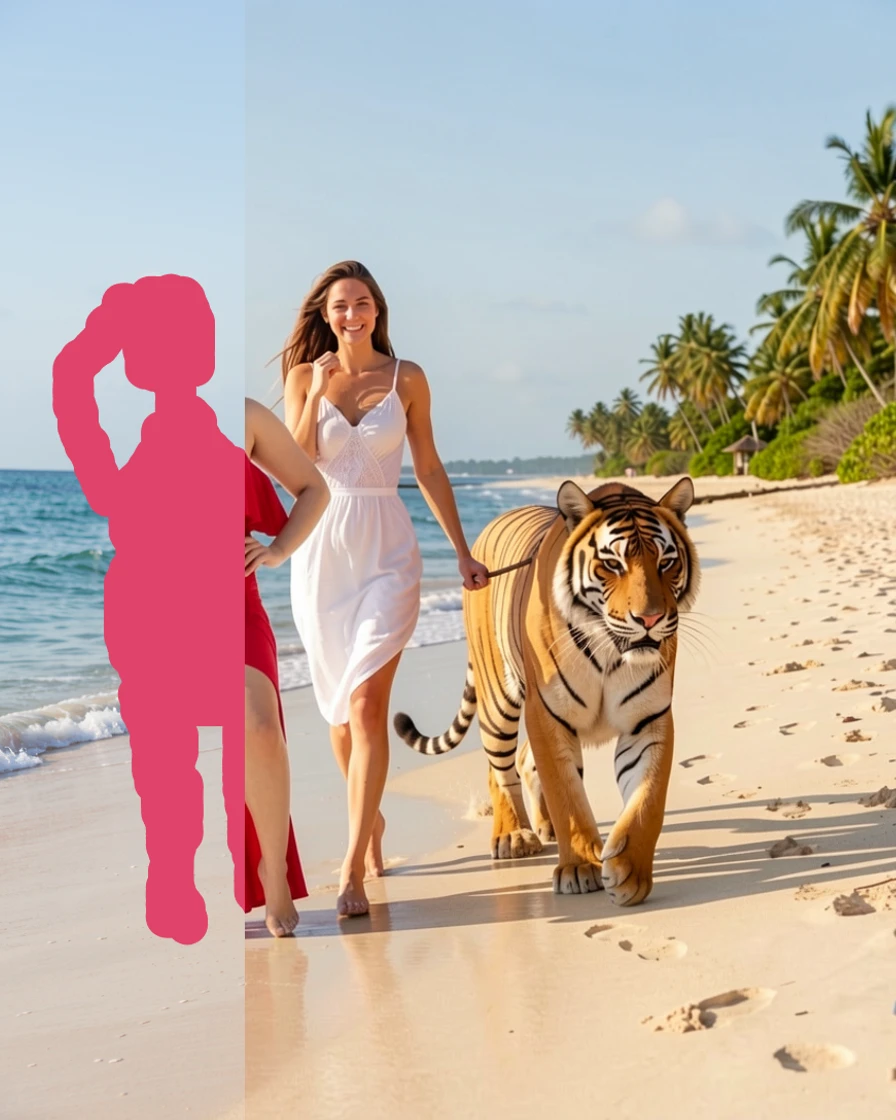
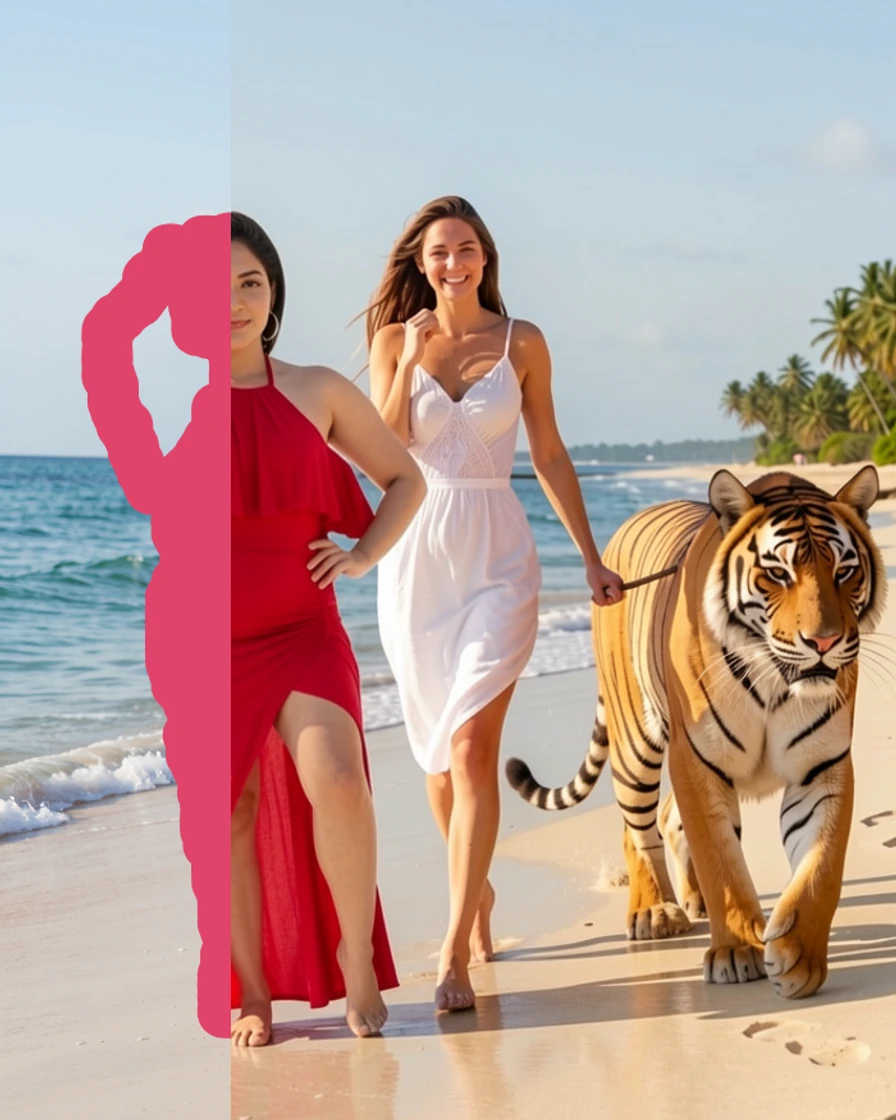
feat(MPI-626): both seams now cut through the face, not past it
Head Swap and Draw It In shipped the right device parked in the wrong
place: the seam sat beside the subject, so neither tile read as one
character in two states.

Re-cut both stills from the original plates, recovered off Fabio's own
runs through their sidecars - nothing regenerated:

- Head Swap: seam on the nose bridge (plate x 857), old beard left, new
  head right. Plates proved registered first - mean abs diff 0.49/255
  with the changed bbox on the head alone (x 771-943, y 122-267), which
  is the property the wipe depends on. flowHeadSwap_002 over 001,
  because 001 keeps a goatee the shipped hero does not.
- Draw It In: seam through the drawn woman's face (plate x 180), so the
  blob and the render are now the same head, half each, instead of two
  figures side by side. Punched 1.28x on her; the full figure, its
  contact shadow, the second woman and the tiger all survive the crop.

Colours sampled off the shipped pair rather than chosen - bar #FF5FA2,
blob flat #E0436B. Heroes and flowsRegistry.js untouched: same
filenames, so the descriptors already point at the new bytes.

diff --git a/.agents/mpi-kanban/tasks/MPI-626/brief.md b/.agents/mpi-kanban/tasks/MPI-626/brief.md
@@ -1,0 +1,59 @@
+# MPI-626 — Re-cut two flow tiles so the seam bisects the face
+
+Fabio, 2026-08-26, looking at the Flow Library grid: Head Swap's seam should sit
+"right at the centre of his face, on his nose, so that it actually displays that
+it's two different characters", and Draw It In's should be "at the centre of the
+character grabbing part of her head".
+
+Both tiles were right about the device and wrong about where to park it.
+
+| Tile | Seam was | Seam is | What that changes |
+|---|---|---|---|
+| Head Swap | plate x ~800 — through his left cheek | **plate x 857** — the nose bridge | Old beard/new beard either side of one face. Two characters, one head |
+| Draw It In | plate x 251 — past the drawing's right edge | **plate x 180** — her face | The drawn shape and the render are now the SAME head, half each. Before, they were two separate figures side by side |
+
+## Plates — all four came off Fabio's own runs, nothing generated
+
+Found through the sidecars, per `06-preview-image.md` § Making them.
+
+- **Head Swap** — `mpi-546-smoke/Media/t2i_008.png` (before) and
+  `flowHeadSwap_002.png` (after), both 1344×768. Registration proved before
+  compositing: mean abs diff **0.49/255** with the changed bbox at
+  **x 771–943, y 122–267** — the head and nothing else, which is what the wipe
+  device depends on. `flowHeadSwap_001.png` pairs with the same before but keeps
+  a grey goatee; the shipped hero's second half is clean-shaven, so **002** is
+  the one that matches the hero.
+- **Draw It In** — run **015** (`Untitled/Media/flowScribObj_015.png`, 896×1088)
+  with its sidecar's two inputs: `image1` → `t2i_005.png`, `image2` → the
+  transparent drawing at
+  `.preview-assets/65df930df99831b649a3744dc9bae514e73ac1bede9896d67e5f49f1d66ba13e.png`
+  (896×1088, alpha bbox x 63–313, y 265–917 — registered to the red-dress figure).
+
+## Numbers
+
+| | Head Swap | Draw It In |
+|---|---|---|
+| crop (plate px) | `left 707, top 9, 300 × 375` | `left 0, top 100, 700 × 875` |
+| seam (plate x) | 857 → 50.0% of tile | 180 → 25.7% of tile |
+| accent bar | yes, `#FF5FA2`, 4 px at tile scale | none — the drawing's own edge IS the line |
+| size | 46.6 KB | 92.7 KB |
+
+Both colours are **measured off the shipped pair**, not chosen: the Head Swap bar
+samples ~(248,100,162) = `#FF5FA2` (the invented pink Fabio approved 2026-08-20,
+explicitly not drift to repair), and the Draw It In blob is a flat
+**`#E0436B`** — 63,121 pixels of one exact value in the shipped tile, so the fill
+is flat, not the drawing's own soft alpha.
+
+Draw It In is also punched in 1.28× on the figure (700 of 896 wide). At the
+shipped full-plate framing the seam lands at 19% and the drawn half is a sliver
+that reads as a stripe at 220 px; the punch keeps the full figure, its contact
+shadow, the second woman and the tiger, and makes the half-drawn head legible.
+
+## Scope
+
+Stills only. No hero rebuild (both `.mp4`s untouched), no `flowsRegistry.js`
+change — the filenames are the same, so the descriptors already point at them.
+
+Poster/first-frame mismatch is unchanged either way: Draw It In's hero opens on
+the bare photo and draws the blob in over the first 2 s, so its poster never
+matched frame 0, before this card or after it.
